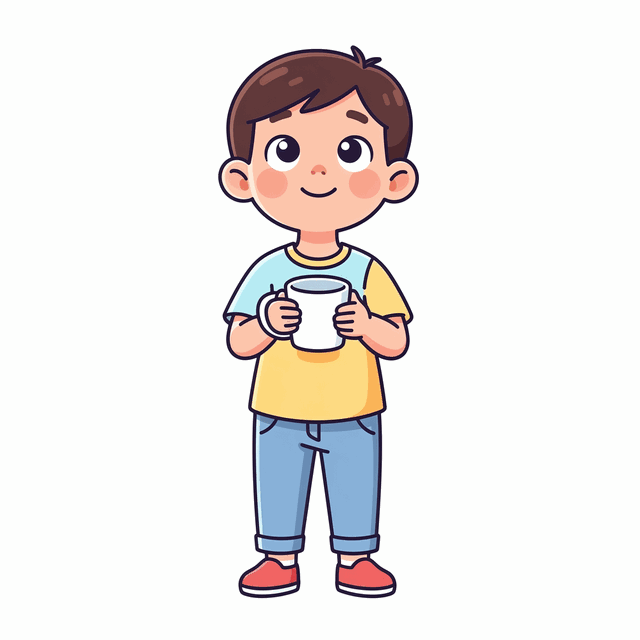
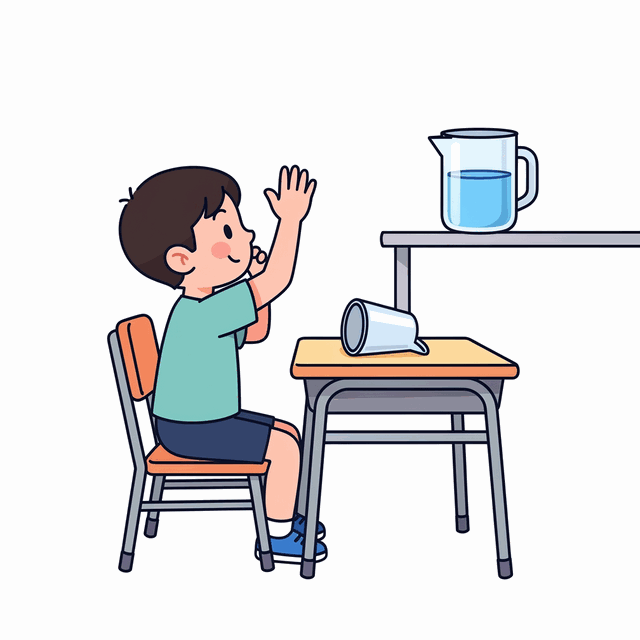
First Words Match 15.10.26i: new picture for 'Please can I have a drink?' (child asking, empty cup)

diff --git a/first-words-match/index.html b/first-words-match/index.html
@@ -108,7 +108,7 @@ footer{text-align:center;font-size:12px;opacity:.55;padding:6px}
   <div class="row"><button class="play" id="again">Play again</button><button class="play alt" id="end-home">Home</button></div>
 </div>
 
-<footer>Version 15.10.26h</footer>
+<footer>Version 15.10.26i</footer>
 
 <script>
 // [word, category, picture]. A picture is an emoji, several emoji separated by spaces, or an "@" scene.
